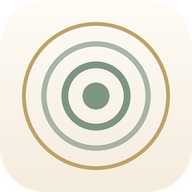
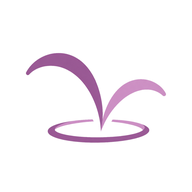
הלוגו החדש של מעיין: אייקון, סמל בראש המסך, מסך פתיחה וסמל התראה
Claude-Session: https://claude.ai/code/session_018EHZuKGzx8u1XZMHA4UTcD

diff --git a/index.html b/index.html
@@ -1,6 +1,6 @@
 <!doctype html>
 <html lang="he" dir="rtl"><head><meta charset="utf-8"><meta name="viewport" content="width=device-width, initial-scale=1, viewport-fit=cover">
[2 lines of base64/hex data omitted]
 <link rel="manifest" href="manifest.json">
 <title>מעיין</title>
 <meta name="claude:viewport-fit-sides" content="cover">
@@ -397,6 +397,9 @@ h1 { font-size: 34px; } h2 { font-size: 27px; } .hero h2 { font-size: 33px; } .w
 .card-h h3 { font-family: var(--display); font-weight: 400; font-size: 20px; }
 .welcome::before { background: radial-gradient(80% 100% at 50% 0%, var(--blush), transparent 70%); }
 @media (max-width: 520px) { h1 { font-size: 30px; } .hero h2 { font-size: 29px; } .ring strong { font-size: 36px; } .times dd { font-size: 20px; } }
+
+.mark { background: #fff !important; border: 1px solid var(--line); overflow: hidden; }
+.mark img { width: 82%; height: 82%; object-fit: contain; display: block; }
 </style>
 </head><body>
 <div id="app" dir="rtl" lang="he"></div><div id="modal" dir="rtl" lang="he"></div><div id="toast" dir="rtl" lang="he"></div>
@@ -2148,7 +2151,7 @@ if (typeof module !== "undefined") module.exports = MaayanScenarios;
 
   /* ---------- אייקונים ---------- */
   const P = {
-    spring: '<circle cx="12" cy="12" r="1.6" fill="currentColor" stroke="none"/><circle cx="12" cy="12" r="5"/><circle cx="12" cy="12" r="9.2" opacity=".6"/>',
+    spring: '<path d="M3.6 10.2C6.2 6 11.2 6.6 12.4 18.2"/><path d="M20.4 12.4C18.3 9.4 13.9 10 12.4 18.2"/><ellipse cx="12" cy="18.6" rx="7.2" ry="2.3"/>',
     droplet: '<path d="M12 22a7 7 0 0 0 7-7c0-2-1-3.9-3-5.5s-3.5-4-4-6.5c-.5 2.5-2 4.9-4 6.5C6 11.1 5 13 5 15a7 7 0 0 0 7 7z"/>',
     home: '<path d="M3 10.5 12 3l9 7.5V20a1 1 0 0 1-1 1h-5v-6H9v6H4a1 1 0 0 1-1-1z"/>',
     calendar: '<rect x="3" y="4" width="18" height="18" rx="2"/><path d="M16 2v4M8 2v4M3 10h18"/>',
@@ -2524,7 +2527,8 @@ if (typeof module !== "undefined") module.exports = MaayanScenarios;
       </div>
       <nav class="tabs" aria-label="ניווט">${NAV.map(([id, t, ic]) => `<button class="${app.tab === id ? "on" : ""}" data-go="${id}"${app.tab === id ? ' aria-current="page"' : ""}>${I(ic, 21)}<span>${t.replace("לוח השנה", "לוח").replace("היומן שלי", "יומן")}</span></button>`).join("")}</nav>`;
   }
-  const mark = () => `<span class="mark">${I("spring", 22)}</span>`;
[1 lines of base64/hex data omitted]
+  const mark = () => `<span class="mark"><img src="${LOGO_IMG}" alt=""></span>`;
   const langSwitch = () => `<div class="seg langs" role="group" aria-label="שפה" data-nt>${Object.entries(L.LANGS).map(([k, n]) => `<button type="button" data-lang="${k}" aria-pressed="${L.lang === k}" lang="${k}">${n}</button>`).join("")}</div>`;
   function applyLang(l, save) {
     L.set(l); M.setLang(L.lang);
@@ -2616,7 +2620,7 @@ if (typeof module !== "undefined") module.exports = MaayanScenarios;
         <p class="fine">המקום יישמר במכשיר וייקבע כמקום ברירת המחדל. רישומים קודמים לא משתנים.</p>
         ${m.error ? `<p class="err" role="alert">${esc(m.error)}</p>` : ""}
         <div class="m-actions"><button class="btn" type="submit">${I("check", 17)}שמירה כמקום שלי</button><button type="button" class="btn ghost" data-act="close-modal">ביטול</button></div></form>`;
-    if (m.kind === "welcome") return `<div class="welcome">${langSwitch()}<div class="mark big">${I("spring", 34)}</div><h2 id="m-title">ברוכה הבאה למעיין</h2>
+    if (m.kind === "welcome") return `<div class="welcome">${langSwitch()}<div class="mark big"><img src="${LOGO_IMG}" alt=""></div><h2 id="m-title">ברוכה הבאה למעיין</h2>
       <p>יומן אישי לטהרת המשפחה: רישום, חישוב עונות הפרישה, שבעה נקיים ותזכורות.</p>
       <ul class="promises"><li>${I("lock", 18)}<span><strong>פרטי לגמרי.</strong> הכול נשמר רק בטלפון הזה, בלי חשבון ובלי שרת.</span></li>
       <li>${I("scale", 18)}<span><strong>שקוף.</strong> לכל מועד מוצגים הכלל והמקור, ואת שיטת החישוב בוחרים לפי ההנחיה שקיבלת.</span></li>

diff --git a/src/app.js b/src/app.js
@@ -14,7 +14,7 @@
 
   /* ---------- אייקונים ---------- */
   const P = {
-    spring: '<circle cx="12" cy="12" r="1.6" fill="currentColor" stroke="none"/><circle cx="12" cy="12" r="5"/><circle cx="12" cy="12" r="9.2" opacity=".6"/>',
+    spring: '<path d="M3.6 10.2C6.2 6 11.2 6.6 12.4 18.2"/><path d="M20.4 12.4C18.3 9.4 13.9 10 12.4 18.2"/><ellipse cx="12" cy="18.6" rx="7.2" ry="2.3"/>',
     droplet: '<path d="M12 22a7 7 0 0 0 7-7c0-2-1-3.9-3-5.5s-3.5-4-4-6.5c-.5 2.5-2 4.9-4 6.5C6 11.1 5 13 5 15a7 7 0 0 0 7 7z"/>',
     home: '<path d="M3 10.5 12 3l9 7.5V20a1 1 0 0 1-1 1h-5v-6H9v6H4a1 1 0 0 1-1-1z"/>',
     calendar: '<rect x="3" y="4" width="18" height="18" rx="2"/><path d="M16 2v4M8 2v4M3 10h18"/>',
@@ -390,7 +390,8 @@
       </div>
       <nav class="tabs" aria-label="ניווט">${NAV.map(([id, t, ic]) => `<button class="${app.tab === id ? "on" : ""}" data-go="${id}"${app.tab === id ? ' aria-current="page"' : ""}>${I(ic, 21)}<span>${t.replace("לוח השנה", "לוח").replace("היומן שלי", "יומן")}</span></button>`).join("")}</nav>`;
   }
-  const mark = () => `<span class="mark">${I("spring", 22)}</span>`;
[1 lines of base64/hex data omitted]
+  const mark = () => `<span class="mark"><img src="${LOGO_IMG}" alt=""></span>`;
   const langSwitch = () => `<div class="seg langs" role="group" aria-label="שפה" data-nt>${Object.entries(L.LANGS).map(([k, n]) => `<button type="button" data-lang="${k}" aria-pressed="${L.lang === k}" lang="${k}">${n}</button>`).join("")}</div>`;
   function applyLang(l, save) {
     L.set(l); M.setLang(L.lang);
@@ -482,7 +483,7 @@
         <p class="fine">המקום יישמר במכשיר וייקבע כמקום ברירת המחדל. רישומים קודמים לא משתנים.</p>
         ${m.error ? `<p class="err" role="alert">${esc(m.error)}</p>` : ""}
         <div class="m-actions"><button class="btn" type="submit">${I("check", 17)}שמירה כמקום שלי</button><button type="button" class="btn ghost" data-act="close-modal">ביטול</button></div></form>`;
-    if (m.kind === "welcome") return `<div class="welcome">${langSwitch()}<div class="mark big">${I("spring", 34)}</div><h2 id="m-title">ברוכה הבאה למעיין</h2>
+    if (m.kind === "welcome") return `<div class="welcome">${langSwitch()}<div class="mark big"><img src="${LOGO_IMG}" alt=""></div><h2 id="m-title">ברוכה הבאה למעיין</h2>
       <p>יומן אישי לטהרת המשפחה: רישום, חישוב עונות הפרישה, שבעה נקיים ותזכורות.</p>
       <ul class="promises"><li>${I("lock", 18)}<span><strong>פרטי לגמרי.</strong> הכול נשמר רק בטלפון הזה, בלי חשבון ובלי שרת.</span></li>
       <li>${I("scale", 18)}<span><strong>שקוף.</strong> לכל מועד מוצגים הכלל והמקור, ואת שיטת החישוב בוחרים לפי ההנחיה שקיבלת.</span></li>

diff --git a/src/styles.css b/src/styles.css
@@ -387,3 +387,6 @@ h1 { font-size: 34px; } h2 { font-size: 27px; } .hero h2 { font-size: 33px; } .w
 .card-h h3 { font-family: var(--display); font-weight: 400; font-size: 20px; }
 .welcome::before { background: radial-gradient(80% 100% at 50% 0%, var(--blush), transparent 70%); }
 @media (max-width: 520px) { h1 { font-size: 30px; } .hero h2 { font-size: 29px; } .ring strong { font-size: 36px; } .times dd { font-size: 20px; } }
+
+.mark { background: #fff !important; border: 1px solid var(--line); overflow: hidden; }
+.mark img { width: 82%; height: 82%; object-fit: contain; display: block; }

diff --git a/brand/icon.py b/brand/icon.py
@@ -3,27 +3,18 @@ from PIL import Image, ImageDraw, ImageFilter
 import math, sys
 S = 2048  # ציור בגודל כפול להחלקה
 
-SAGE, GOLD, CREAM = (127, 149, 131), (184, 154, 94), (251, 246, 238)
+import os
+LOGO = Image.open(os.path.join(os.path.dirname(os.path.abspath(__file__)), "src", "logo.png")).convert("RGBA")
 
 def gradient(size):
-    # רקע שמנת רך, מעט בהיר יותר למעלה
-    img = Image.new("RGB", (size, size)); px = img.load()
-    c0, c1 = (255, 252, 246), (244, 236, 222)
-    for y in range(size):
-        u = y / size; c = tuple(int(c0[i] + (c1[i] - c0[i]) * u) for i in range(3))
-        for x in range(size): px[x, y] = c
-    return img
+    return Image.new("RGB", (size, size), (255, 255, 255))
 
 def art(size, scale=1.0, with_bg=True, radius=0.225):
-    """אדוות מים: נקודה ושלושה עיגולים. scale: גודל הציור ביחס לקנבס"""
-    fg = Image.new("RGBA", (size, size), (0, 0, 0, 0)); d = ImageDraw.Draw(fg)
-    cx = cy = size / 2; k = size * scale
-    def ring(r, w, col):
-        r *= k; w = max(2, int(w * k)); d.ellipse([cx - r, cy - r, cx + r, cy + r], outline=col, width=w)
-    ring(.385, .020, GOLD + (235,))
-    ring(.285, .028, SAGE + (170,))
-    ring(.180, .036, SAGE + (255,))
-    r = .070 * k; d.ellipse([cx - r, cy - r, cx + r, cy + r], fill=SAGE + (255,))
+    """סמל מעיין (הלוגו של נתן) על רקע לבן. scale: גודל הציור ביחס לקנבס"""
+    fg = Image.new("RGBA", (size, size), (0, 0, 0, 0))
+    w = int(size * scale * 0.74); h = int(w * LOGO.height / LOGO.width)
+    lg = LOGO.resize((w, h), Image.LANCZOS)
+    fg.paste(lg, ((size - w) // 2, (size - h) // 2 + int(size * 0.01)), lg)
     if not with_bg: return fg
     out = Image.alpha_composite(gradient(size).convert("RGBA"), fg)
     if radius:
@@ -54,5 +45,5 @@ if __name__ == "__main__":
         fgl.resize((a, a), Image.LANCZOS).save(f"{p}/ic_launcher_foreground.png")
         bgl.resize((a, a), Image.LANCZOS).save(f"{p}/ic_launcher_background.png")
     # מסך פתיחה: סמל במרכז על רקע בהיר
-    sp = Image.new("RGB", (2732, 2732), (251, 246, 238)); ic = full.resize((560, 560), Image.LANCZOS); sp.paste(ic, ((2732 - 560) // 2, (2732 - 560) // 2), ic); sp.save(f"{out}/splash.png")
+    sp = Image.new("RGB", (2732, 2732), (255, 255, 255)); ic = full.resize((560, 560), Image.LANCZOS); sp.paste(ic, ((2732 - 560) // 2, (2732 - 560) // 2), ic); sp.save(f"{out}/splash.png")
     print("ok")
